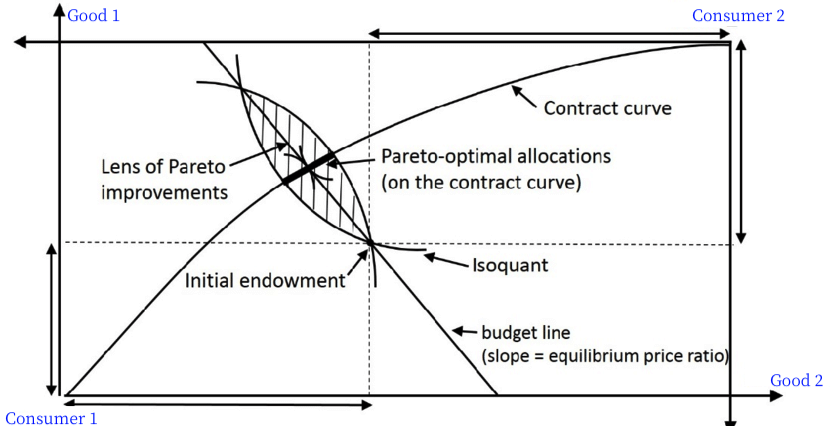
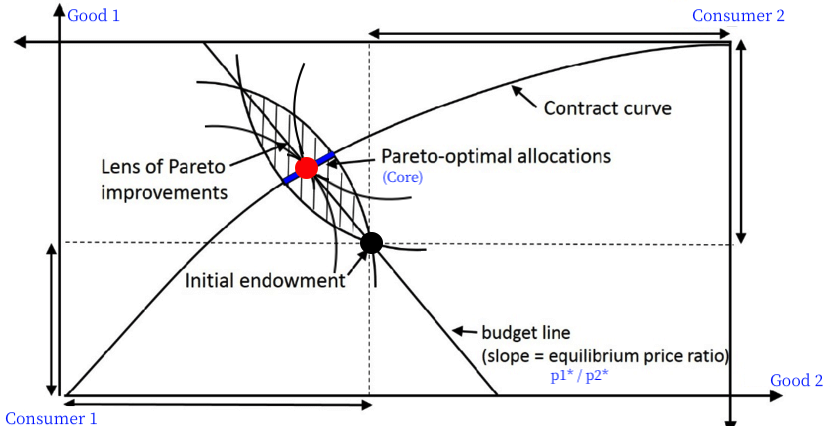
update 20190313-1810

diff --git a/2019/01/notes-micro/index.html b/2019/01/notes-micro/index.html
@@ -139,6 +139,7 @@
 </ul></li>
 <li><a href="#general-equilibrium-exchange">General Equilibrium (Exchange)</a><ul>
 <li><a href="#core">Core</a></li>
+<li><a href="#efficiency-edgeworth-box">Efficiency &amp; Edgeworth Box</a></li>
 <li><a href="#competitive-market">Competitive Market</a></li>
 <li><a href="#total-welfare-1">Total Welfare</a></li>
 </ul></li>
@@ -1391,7 +1392,7 @@ p_1^* &amp;= \frac{p_2}{4}+20 \\
 <li>Economy: <span class="math inline">\(\mathcal{E}=(\succsim^i, e^i)_{i\in\mathcal{I}}\)</span>
 <ul>
 <li>Set of consumers: <span class="math inline">\(\mathcal{I}\equiv\{1,2,\dots, I\}\)</span></li>
-<li>Consumer i’s endowment: <span class="math inline">\(e^i = (e^i_1, e^i_2,\dots, e^i_n)\)</span></li>
+<li>Consumer i’s endowment: <span class="math inline">\(e^i = (e^i_1, e^i_2,\dots, e^i_K)\)</span></li>
 </ul></li>
 <li>Allocation for all goods: <span class="math inline">\(\mathbb{x} = (x^1,x^2,\dots,x^I)\)</span>
 <ul>
@@ -1411,40 +1412,68 @@ p_1^* &amp;= \frac{p_2}{4}+20 \\
 <li>Core <span class="math inline">\(C(e)\)</span> is the set of all unblocked feasible allocations</li>
 </ul>
 </div>
+<div id="efficiency-edgeworth-box" class="section level3">
+<h3>Efficiency &amp; Edgeworth Box</h3>
+<ul>
+<li>Contract Curve: Pareto efficient allocations</li>
+<li>Core <span class="math inline">\(C(e)\)</span>: on the contract curve + inside the lens (not blocked by either consumer)</li>
+</ul>
+<div class="figure">
+<img src="/post-img/notes-micro--edgeworth-core.png" alt="Source: Diagram Technology Templates and Examples" />
+<p class="caption">Source: <a href="https://diagram-ideas.com/page/3082/">Diagram Technology Templates and Examples</a></p>
+</div>
+</div>
 <div id="competitive-market" class="section level3">
 <h3>Competitive Market</h3>
 <ul>
-<li>Market price: <span class="math inline">\(p = (p_1, p_2,\dots,p_n)\)</span></li>
+<li>Market price: <span class="math inline">\(p = (p_1, p_2,\dots,p_K)\)</span></li>
 <li>Consumer’s problem: <span class="math display">\[\begin{aligned} \max u^i(x^i) &amp;&amp; p\cdot x^i\leq p\cdot e^i\end{aligned}\]</span>
 <ul>
-<li>Continuous, strongly increasing, strictly quasi-concave (Assumption 5.1)</li>
-<li>Demanded bundle: <span class="math inline">\(x^i(p,pe^i)\)</span></li>
+<li>AMT Assumption 5.1:</li>
+<li>Continuous</li>
+<li>Strongly Increasing</li>
+<li>Strictly Quasi-Concave</li>
 </ul></li>
-<li>Aggregate excess (net) demand for good k: <span class="math display">\[z_k(p) = \sum_{\mathcal{I}}x^i_k(p,pe^i) - \sum_{\mathcal{I}} e^i_k\]</span>
+<li>Demanded bundle: <span class="math inline">\(x^i(p,p\cdot e^i)\)</span>
 <ul>
-<li>Aggregate excess demand vector: <span class="math display">\[\mathbb{z}(p) = \big(z_1(p), z_2(p),\dots, z_n(p)\big)\]</span></li>
-<li>Continuous, homogeneous of degree 0</li>
-<li>Walras’ law: <span class="math inline">\(p\cdot \mathbb{z}(p) = 0\)</span></li>
+<li>Unique</li>
+<li>Continuous in <span class="math inline">\(p\in\mathbb{R}_{++}^K\)</span></li>
 </ul></li>
-<li>Contract Curve: Pareto efficient allocations</li>
-<li>Core <span class="math inline">\(C(e)\)</span>: on the contract curve + inside the lens (not blocked by either consumer)</li>
-<li>Walrasian Equilibrium (price): <span class="math inline">\(p^*\)</span> s.t. <span class="math inline">\(\mathbb{z}(p^*) = 0\)</span>
+<li>Aggregate Excess Demand for good k<br />
+<span class="math display">\[z_k(p) = \sum_{\mathcal{I}}x^i_k(p,p\cdot e^i) - \sum_{\mathcal{I}} e^i_k\]</span></li>
+<li>Aggregate excess demand vector<br />
+<span class="math display">\[z(p) = \big(z_1(p), z_2(p),\dots, z_K(p)\big)\]</span>
 <ul>
-<li>Condition: (Assumption 5.1) + <span class="math inline">\(\sum_I e^i \gg 0\)</span></li>
+<li>Condition: Assumption 5.1 <span class="math inline">\(\implies\)</span></li>
+<li>Continuous in <span class="math inline">\(p\in\mathbb{R}_{++}^K\)</span></li>
+<li>Homogeneous (0)</li>
+<li>Walras’ law: <span class="math inline">\(p\cdot z(p) = 0\)</span></li>
 </ul></li>
-<li>WEA (Walras Equilibrium Allocations): <span class="math inline">\(W(e)\subset C(e)\)</span>
+<li>Walrasian Equilibrium (price):
+<span class="math display">\[\begin{aligned} p^*\in\mathbb{R}_{++}^K &amp;&amp; \text{s.t.} &amp;&amp; z(p^*) = 0\end{aligned}\]</span>
+<ul>
+<li>Conditions: Assumption 5.1 + <span class="math inline">\(\sum_\mathcal{I} e^i \gg 0\implies\)</span></li>
+<li><span class="math inline">\(z(\cdot)\)</span> is continuous</li>
+<li><span class="math inline">\(p\cdot z(p) = 0\)</span> for all <span class="math inline">\(p\in\mathbb{R}_{++}^K\)</span></li>
+</ul></li>
+<li>Walras Equilibrium Allocations (WEA)<br />
+<span class="math display">\[x(p^*) = (x^1(p^*,p^*\cdot e^1), \dots, x^n(p^*,p^*\cdot e^n))\]</span>
+<ul>
+<li><span class="math inline">\(x(p^*)\in F(e)\)</span></li>
+<li><span class="math inline">\(u^i(x&#39;)\geq u^i\big(x^i(p^*)\big)\)</span> <span class="math inline">\(\implies\)</span> <span class="math inline">\(p\cdot x&#39;\geq p\cdot \big(x^i(p^*)\big)\)</span></li>
+</ul></li>
+<li>Set of WEAs: <span class="math inline">\(W(e)\subset C(e)\)</span>
 <ul>
 <li>Condition: <span class="math inline">\(u^i\)</span> strictly increasing</li>
 </ul></li>
 </ul>
-<!-- ![Source: [Diagram Technology Templates and Examples](https://diagram-ideas.com/page/3082/)](/post-img/notes-micro--edgeworth-core.png) -->
 <blockquote>
 <p>PS2.Q1<br />
 Consider a two person economy where 2 consumers have CES (constant elasticity of substitution) utility functions: <span class="math inline">\(u^i(x_1,x_2) = (x_1^ρ+x_2^ρ)^{\frac{1}{ρ}}\)</span>, <span class="math inline">\(0&lt;ρ&lt;1\)</span><br />
 and endowments <span class="math inline">\(e^1 = (1,0)\)</span>, <span class="math inline">\(e^2 = (0,1)\)</span><br />
 Suppose there are given prices <span class="math inline">\(p_1\)</span> and <span class="math inline">\(p_2\)</span> for the two goods<br />
 Suppose further that consumers think their income is <span class="math inline">\(y_1\)</span> and <span class="math inline">\(y_2\)</span> (for the time being, not thinking about how they get that income)<br />
-Derive the consumersídemand functions for good 1 and good 2, respectively.</p>
+Derive the consumers’ demand functions for good 1 and good 2, respectively.</p>
 </blockquote>
 <p>Let <span class="math inline">\(p = (p_1,p_2)\)</span>, consumer’s problem:
 <span class="math display">\[\begin{aligned} \max_{x_1,x_2} u^i(x_1,x_2) = (x_1^ρ+x_2^ρ)^{\frac{1}{ρ}} \\ s.t. y^i = p_1x_1+p_2x_2 \\
@@ -1527,11 +1556,11 @@ The core is the part of contract curve that is inside the lens.</p>
 <div id="total-welfare-1" class="section level3">
 <h3>Total Welfare</h3>
 <ul>
-<li>First Welfare: every WEA is Pareto efficient
+<li>First Welfare Theorem: every WEA is Pareto efficient
 <ul>
 <li>Condition: <span class="math inline">\(u^i\)</span> strictly increasing</li>
 </ul></li>
-<li>Second Welfare: for every Pareto efficient allocation <span class="math inline">\(\bar{x}\)</span>, there is <span class="math inline">\(\bar{p}\)</span> s.t. <span class="math inline">\(\bar{x}\)</span> is a WEA, if the endowment has been redistributed to <span class="math inline">\(\bar{x}\)</span>
+<li>Second Welfare Theorem: for every Pareto efficient allocation <span class="math inline">\(\bar{x}\)</span>, there is <span class="math inline">\(\bar{p}\)</span> s.t. <span class="math inline">\(\bar{x}\)</span> is a WEA, if the endowment has been redistributed to <span class="math inline">\(\bar{x}\)</span>
 <ul>
 <li>Condition: (Assumption 5.1) + <span class="math inline">\(\sum_I e^i \gg 0\)</span></li>
 </ul></li>
